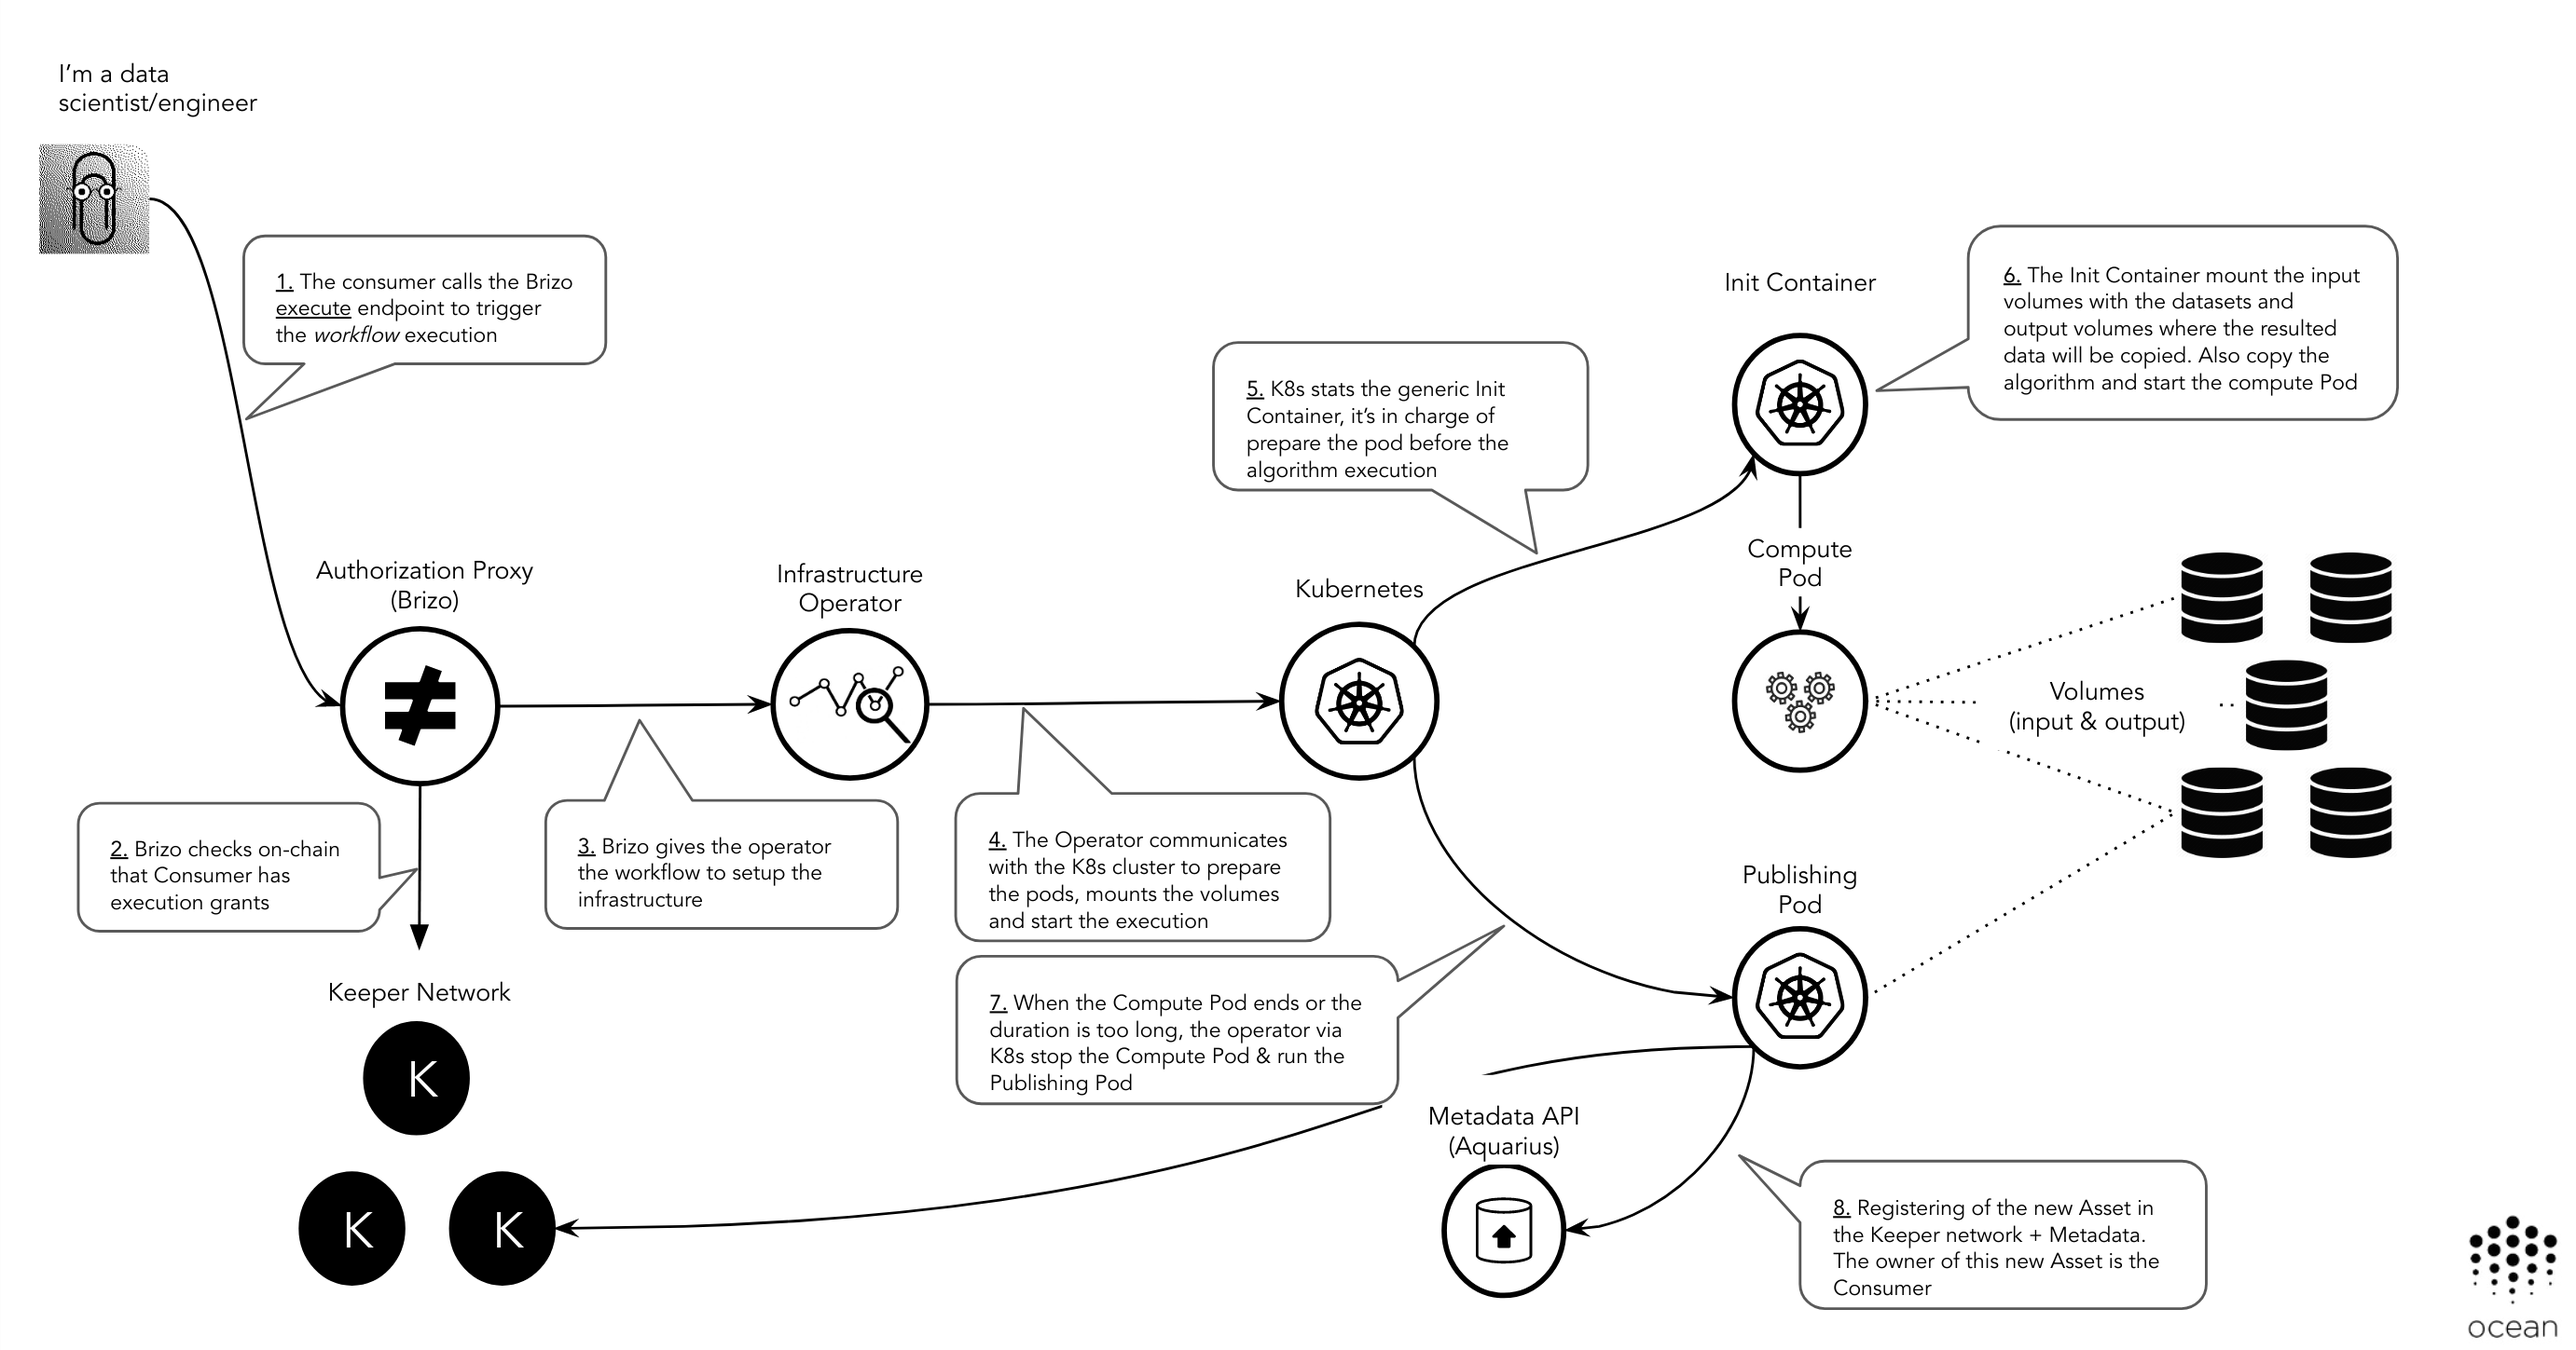
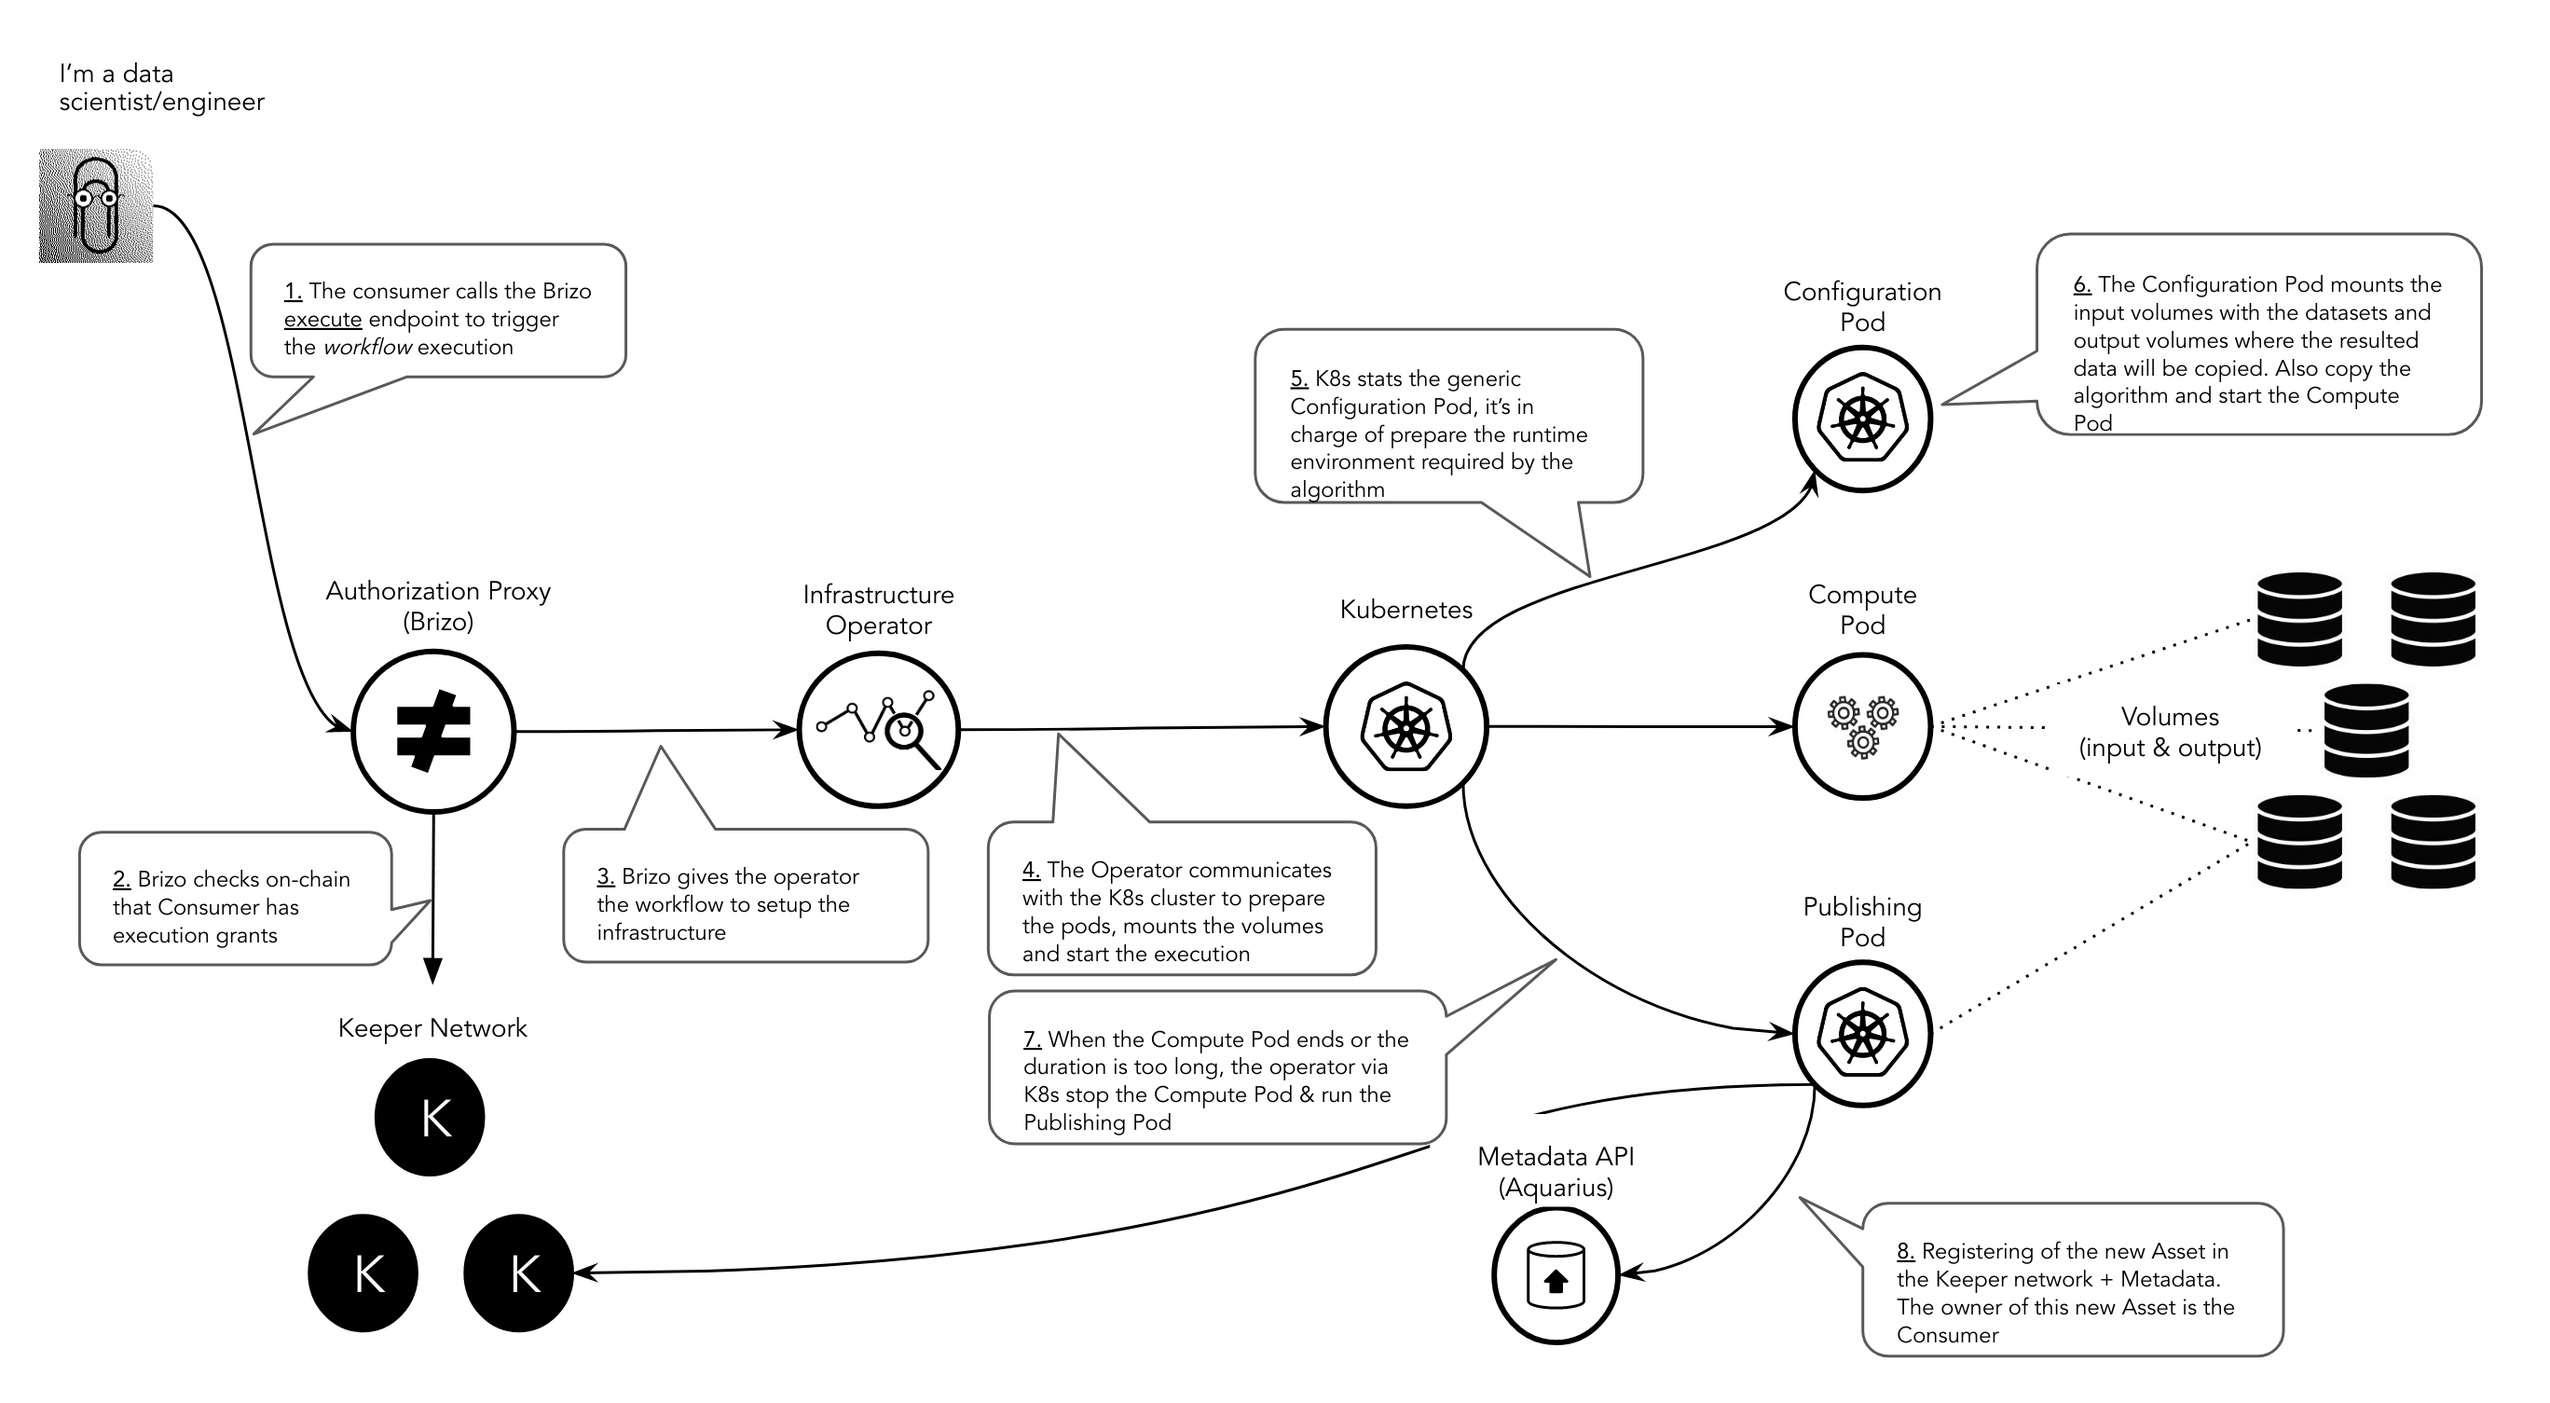
using Configuration Pod instead of Init Container

diff --git a/12/README.md b/12/README.md
@@ -467,29 +467,29 @@ The steps included in this scenario are:
 
 1. The OPERATOR communicates with the K8s cluster to prepare the pods
 
-1. K8s starts a generic [Init Container](https://kubernetes.io/docs/concepts/workloads/pods/init-containers/). The responsibilities of the init container are:
+1. The OPERATOR via K8s starts a generic [Configuration Pod](https://github.com/oceanprotocol/pod-configuration). The responsibilities of the configuration pod are:
    - Parse the Workflow document
    - Resolve the DID resources necessary to run the Workflow
    - Pull the docker image from the Docker registry
    - Plug the different data inputs as volumes in the Compute Pod
    - Plug the output for data and logs as volumes in the Compute Pod
-   - Start the Compute Pod and copy the algorithm
-   - Execute the algorithm passing as parameter the input and output volumes   
 
-1. After all the above steps the Init Container must die
+1. After all the above steps the Configuration Pod must die
 
-1. The Compute Pod must continue running the execution
+1. If the Configuration Pod ends successfully the OPERATOR via K8s starts the Computing Pod
+
+1. The Compute Pod starts and run the `ocean-entrypoint.sh` part of the algorithm downloaded by the Configuration Pod
 
 1. When the Compute Pod ends or the duration is too long (timeout), the OPERATOR via K8s stop and delete the Compute Pod
 
-1. The OPERATOR start a new instance of the Publishing Pod. The responsibilities of the Publishing Pod are:
-   - List of the Log files generated in the Log volume
+1.  If the Computing Pod ends, the OPERATOR start a new instance of the Publishing Pod. The responsibilities of the Publishing Pod are:
+   - List of the Log files generated in the Log volume and copy to the output
    - List of the Output data generated in the Output volume
    - Generate a new Asset Metadata using the information provided by the CONSUMER
    - Register a new Asset in Ocean including the Output & Log data generated
    - Transfer the ownership of the new Asset created to the CONSUMER    
- 
- 1. At this point the CONSUMER could get an event of a new created asset where he/she is the owner 
+
+1. At this point the CONSUMER could get an event of a new created asset where he/she is the owner 
 
 ![Infrastructure Orchestration](images/infrastructure-orchestration.png)
 
